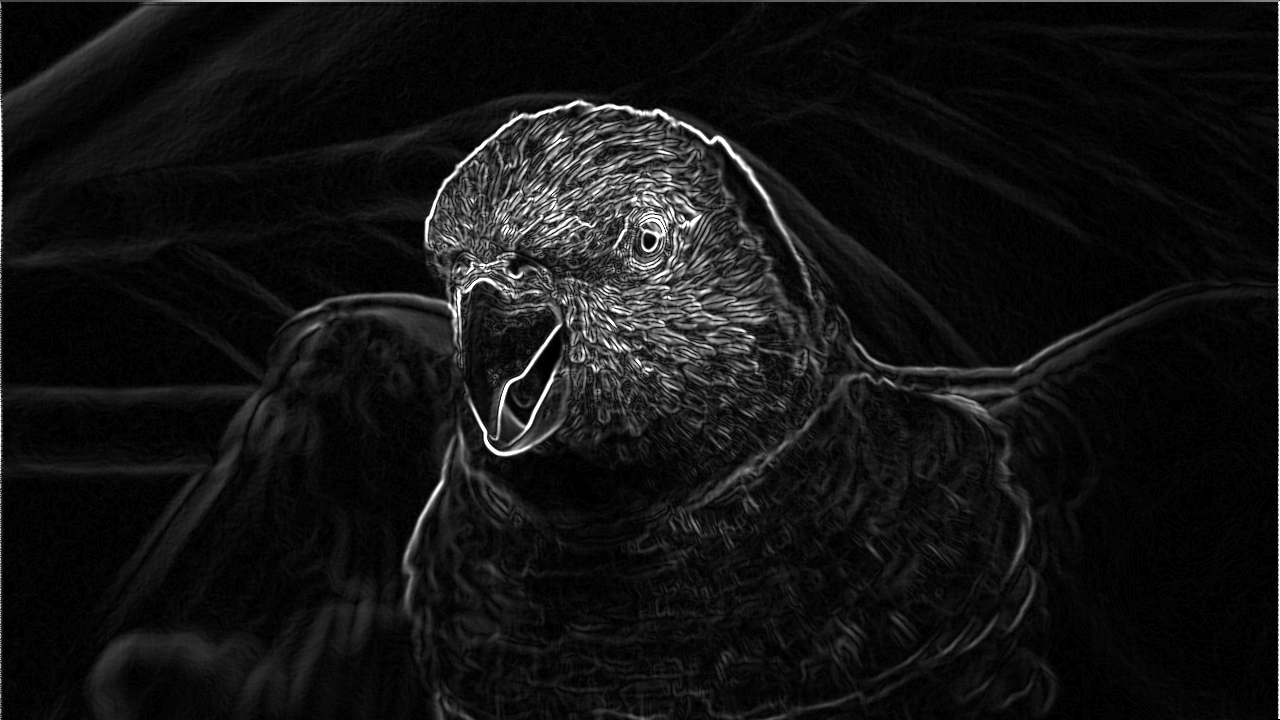
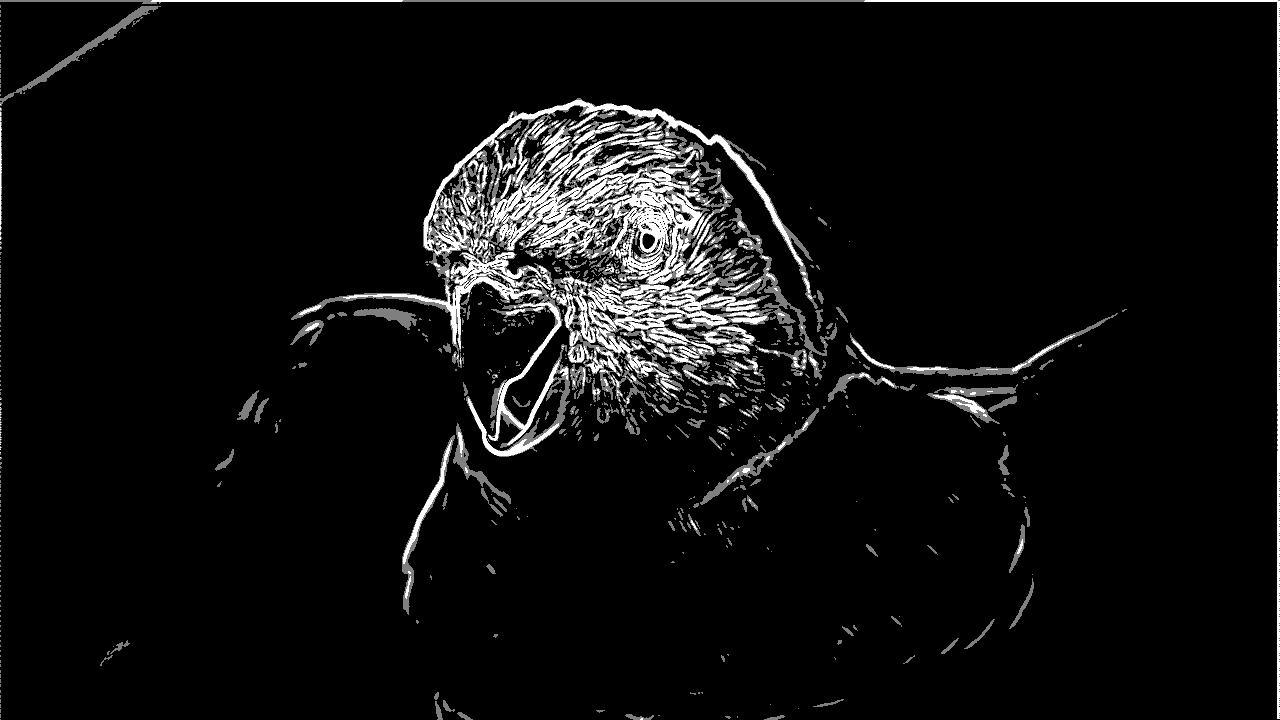
Implement db thresholding

diff --git a/hls-canny/canny.cpp b/hls-canny/canny.cpp
@@ -113,7 +113,7 @@ void gaussian(pixel_stream &src, pixel_stream &dst)
 			for (int j = 0; j < GAUSSIAN_MASK_SIZE; j++)
 #pragma HLS unroll
 				window[i][j] = buffer[(y - (GAUSSIAN_MASK_SIZE - 1 - i)) % GAUSSIAN_MASK_SIZE][x - (GAUSSIAN_MASK_SIZE - 1 - j)] * GAUSSIAN_MASK[GAUSSIAN_MASK_SIZE - 1 - i][GAUSSIAN_MASK_SIZE - 1 - j];
-		// window[i][j] = buffer[(y - i)) % GAUSSIAN_MASK_SIZE][x - i] * GAUSSIAN_MASK[i][j];
+		// window[i][j] = buffer[(y + i) % GAUSSIAN_MASK_SIZE][x + j] * GAUSSIAN_MASK[i][j];
 
 		// Sum all the values in the window
 		for (int i = 0; i < GAUSSIAN_MASK_SIZE; i++)
@@ -214,6 +214,9 @@ void Sobel(pixel_stream &src, pixel_stream &dst, ap_uint<2> &grad_dir)
 #pragma HLS unroll
 				h_window[i][j] = buffer[(y - (SOBEL_KERNEL_SIZE - 1 - i)) % SOBEL_KERNEL_SIZE][x - (SOBEL_KERNEL_SIZE - 1 - j)] * H_SOBEL_KERNEL[SOBEL_KERNEL_SIZE - 1 - i][SOBEL_KERNEL_SIZE - 1 - j];
 				v_window[i][j] = buffer[(y - (SOBEL_KERNEL_SIZE - 1 - i)) % SOBEL_KERNEL_SIZE][x - (SOBEL_KERNEL_SIZE - 1 - j)] * V_SOBEL_KERNEL[SOBEL_KERNEL_SIZE - 1 - i][SOBEL_KERNEL_SIZE - 1 - j];
+
+				// h_window[i][j] = buffer[(y + i) % SOBEL_KERNEL_SIZE][x + j] * H_SOBEL_KERNEL[i][j];
+				// v_window[i][j] = buffer[(y + i) % SOBEL_KERNEL_SIZE][x + j] * V_SOBEL_KERNEL[i][j];
 			}
 		}
 
@@ -287,6 +290,85 @@ void Sobel(pixel_stream &src, pixel_stream &dst, ap_uint<2> &grad_dir)
 		x++;
 }
 
+void double_threshold(pixel_stream &src, pixel_stream &dst)
+{
+// #pragma HLS INTERFACE ap_ctrl_none port = return
+// #pragma HLS INTERFACE axis port = &src
+// #pragma HLS INTERFACE axis port = &dst
+//  #pragma HLS INTERFACE s_axilite port = mask
+#pragma HLS PIPELINE II = 1
+	//
+	// Data to be stored across 'function calls'
+	static uint16_t x = 0; // X coordinate --> cols
+	static uint16_t y = 0; // Y coordinate
+						   //
+	// Buffer to store the pixel values (to be used in the convolution)
+	// static uint32_t buffer[SOBEL_KERNEL_SIZE][WIDTH]; // Gaussian mask
+
+	// Window is used to perform the convolution in parallel
+	// uint32_t h_window[SOBEL_KERNEL_SIZE][SOBEL_KERNEL_SIZE]; // Window
+	// uint32_t v_window[SOBEL_KERNEL_SIZE][SOBEL_KERNEL_SIZE];
+	//
+	pixel_data p_in;
+	//
+	//		// Load input data from source
+	src >> p_in;
+	//
+	//		// Reset X and Y counters on user signal
+	if (p_in.user)
+		x = y = 0;
+
+	////////////////////////////////
+
+	// Pixel data to be stored across 'function calls'
+	static pixel_data p_out;
+
+	// grad_dir = 0;
+
+	uint8_t pixel = rgba2r(p_in.data);
+	//		// Store pixel value in buffer
+	// if (x < WIDTH)
+	// Store the pixel value in the buffer
+	// buffer[y % SOBEL_KERNEL_SIZE][x] = pixel;
+
+	// Check for threshold
+	if (pixel >= HIGH_THRESHOLD)
+	{
+		// Set output pixel data
+		p_out.data = r2rgba(STRONG_EDGE) | g2rgba(STRONG_EDGE) | b2rgba(STRONG_EDGE);
+	}
+	else if (pixel > LOW_THRESHOLD)
+	{
+		// Set output pixel data
+		p_out.data = r2rgba(WEAK_EDGE) | g2rgba(WEAK_EDGE) | b2rgba(WEAK_EDGE);
+	}
+	else
+	{
+		// Set output pixel data
+		p_out.data = r2rgba(NO_EDGE) | g2rgba(NO_EDGE) | b2rgba(NO_EDGE);
+	}
+
+	// Store the pixel value in the
+
+	// Write pixel to destination
+	dst << p_out;
+
+	// Need to change this
+	p_out.user = p_in.user;
+	p_out.last = p_in.last;
+	////////////////////////////////
+
+	// Increment X and Y counters
+	if (p_in.last)
+	{
+		// Stored a row of pixels
+		x = 0;
+		y++;
+	}
+	else
+		x++;
+}
+
 // Stream function
 pixel_stream gray, sobel, gauss;
 ap_uint<2> grad_dir = 0;
@@ -301,5 +383,12 @@ void stream(pixel_stream &src, pixel_stream &dst, int frame)
 	// 1. Gaussian blur
 	gaussian(gray, gauss);
 
-	Sobel(gauss, dst, grad_dir);
+	// 2. Sobel
+	Sobel(gauss, sobel, grad_dir);
+
+	// 3. Non-maximum suppression
+	// non_max_suppression(sobel, dst, grad_dir);
+
+	// 4. Double threshold
+	double_threshold(sobel, dst);
 }

diff --git a/hls-canny/canny.hpp b/hls-canny/canny.hpp
@@ -48,13 +48,21 @@ const uint32_t GAUSSIAN_MASK[GAUSSIAN_MASK_SIZE][GAUSSIAN_MASK_SIZE] = {{11, 53,
                                                                         {11, 53, 88, 53, 11}};
 #endif
 
-const int H_SOBEL_KERNEL[SOBEL_KERNEL_SIZE][SOBEL_KERNEL_SIZE] = {{ -1,  0, 1},
-        														  { -2,  0, 2},
-																  { -1,  0, 1}};
+const int H_SOBEL_KERNEL[SOBEL_KERNEL_SIZE][SOBEL_KERNEL_SIZE] = {{-1, 0, 1},
+                                                                  {-2, 0, 2},
+                                                                  {-1, 0, 1}};
 
-const int V_SOBEL_KERNEL[SOBEL_KERNEL_SIZE][SOBEL_KERNEL_SIZE] = {{ 1,  2,  1},
-        													      { 0,  0,  0},
-																  {-1, -2, -1}};
+const int V_SOBEL_KERNEL[SOBEL_KERNEL_SIZE][SOBEL_KERNEL_SIZE] = {{1, 2, 1},
+                                                                  {0, 0, 0},
+                                                                  {-1, -2, -1}};
+
+// Thresholds for double thresholding
+#define LOW_THRESHOLD 50
+#define HIGH_THRESHOLD 100
+#define STRONG_EDGE 255
+#define WEAK_EDGE 127
+#define NO_EDGE 0
+
 void canny(pixel_stream &src, pixel_stream &dst);
 
 // Perform a conversion from RGB to grayscale
@@ -67,9 +75,4 @@ void Sobel(pixel_stream &src, pixel_stream &dst, ap_uint<2> &grad_dir);
 
 void non_max_sup(pixel_stream &src, pixel_stream &dst);
 
-
-
-
-
-
-
+void double_threshold(pixel_stream &src, pixel_stream &dst);
